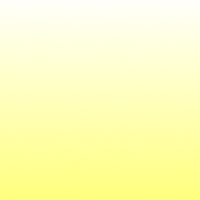
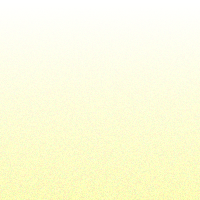
dedicated target model, new textures

diff --git a/app.py b/app.py
@@ -13,7 +13,7 @@ from OpenGL.GL import *
 
 from engine.shader import Shader, Program
 from engine.camera import Camera
-from engine.model import MapTile, Airplane, Model
+from engine.model import MapTile, Airplane, Model, Target
 from engine.frustum import Frustum
 from engine.vao import VAO
 from engine.primitives import Plane, Cylinder, Cloud
@@ -49,11 +49,12 @@ class GLWidget(QOpenGLWidget):
         self.mission_manager    = MissionManager(configs)
         self.targets            = []
         for airport in self.mission_manager.get_airports():
-            target          = Model(
+            target          = Target(
                 vao                 = self.target_vao, 
                 position            = glm.vec3(*airport.position, configs.getfloat("target_height") / 2),
                 scale               = glm.vec3(configs.getfloat("target_radius"), configs.getfloat("target_radius"), configs.getfloat("target_height")),
-                texture_path        = configs.get("target_tex_path")
+                texture_path        = configs.get("target_tex_path"), 
+                rotation_speed      = configs.getfloat("target_rot_speed")
             )
             self.targets.append(target)
 
@@ -139,7 +140,6 @@ class GLWidget(QOpenGLWidget):
 
 
         if self.mission.check_distance((self.air_plane.position.x, self.air_plane.position.y)):
-            print("YAY!")
             self.mission = self.mission_manager.new_mission()
             print("New Mission: Reach '{}, {}'".format(self.mission.target.name, self.mission.target.country))
 

diff --git a/scripts/generate_target_texture.py b/scripts/generate_target_texture.py
@@ -3,24 +3,36 @@ import numpy as np
 
 
 size        = (200, 200, 4)
+min_alpha   = 0.0
+max_alpha   = 0.3
 
-noise_level = 10
+noise_level = 0.5
+base_color  = (0, 1, 1)
 
-base_color  = (0, 255, 255)
-
-max_alpha   = 0.5
-
+"""
 image = np.zeros(size)
 
 for y in range(size[0]):
     row_alpha   = 255 * (y / size[0] * max_alpha)
     row_col     = np.array([*base_color, row_alpha])                        # (4)
-    image[y]    = np.random.random((size[1], 4)) * noise_level + row_col    # (x, 4)
+    image[y]    = np.random.random((size[1], 4)) * 255 + row_col    # (x, 4)
 
 image = np.clip(image, 0, 255)
 image = image.astype(np.uint8)
 
-cv2.imshow("pp", image)
-cv2.waitKey()
+cv2.imwrite("assets/target.png", image)
+"""
 
+base_image  = np.zeros((size[0], size[1], 3)) + np.array(base_color)
+noise       = (np.random.random((size[0], size[1], 3)) - 0.5) * noise_level
+image       = (base_image + noise) * 255
+
+# Add alpha channel
+image       = np.concat([image, np.zeros((size[0], size[1], 1))], -1) 
+
+for y in range(size[0]):
+    image[y,:,-1] = 255 * ((y / size[0]) * (max_alpha - min_alpha) + min_alpha)
+
+image       = np.clip(image, 0, 255)
+image       = image.astype(np.uint8)
 cv2.imwrite("assets/target.png", image)

diff --git a/engine/model.py b/engine/model.py
@@ -24,8 +24,9 @@ class Model:
 
 
     def update(self):
-        self.orbit_deg      += 1
-        self.model_matrix   = self.calculate_model_matrix()
+        print("Nothing to update")
+        pass
+
 
 
     def initializeGL(self):
@@ -41,6 +42,21 @@ class Model:
     def release(self):
         self.vao.release()
         self.texture.release()
+
+
+
+class Target(Model):
+
+    def __init__(self, vao, position, scale, texture_path, rotation_speed):
+
+        super().__init__(vao, position, scale, texture_path)
+
+        self.rotation_speed     = rotation_speed
+
+    def update(self):
+        self.orbit_deg      += self.rotation_speed
+        self.model_matrix   = self.calculate_model_matrix()
+
 
 
 class Airplane(Model):

diff --git a/scripts/generate_cloud_texture.py b/scripts/generate_cloud_texture.py
@@ -3,8 +3,8 @@ import numpy as np
 
 size        = (200, 200, 4)
 noise_level = 10
-min_alpha   = 0.3
-max_alpha   = 0.4
+min_alpha   = 0.0
+max_alpha   = 0.2
 
 cloud_base_colors   = [(1, 1, 1), (0, 0, 0)]
 cloud_paths         = ["assets/cloud_white.png", "assets/cloud_black.png"]

diff --git a/README.md b/README.md
@@ -24,11 +24,8 @@ python app.py
 
 # TODOs
 * Add Tiling around world borders / seemless transitions
-* Add config files
 * Add Package Drop Of functionality
-* Add Missions
 * Add Airplane Shadow
 * Add other airplanes
-* Add normal clouds
-* Add dangerous clouds
+* Add dangerous cloud crashes
 * write README
